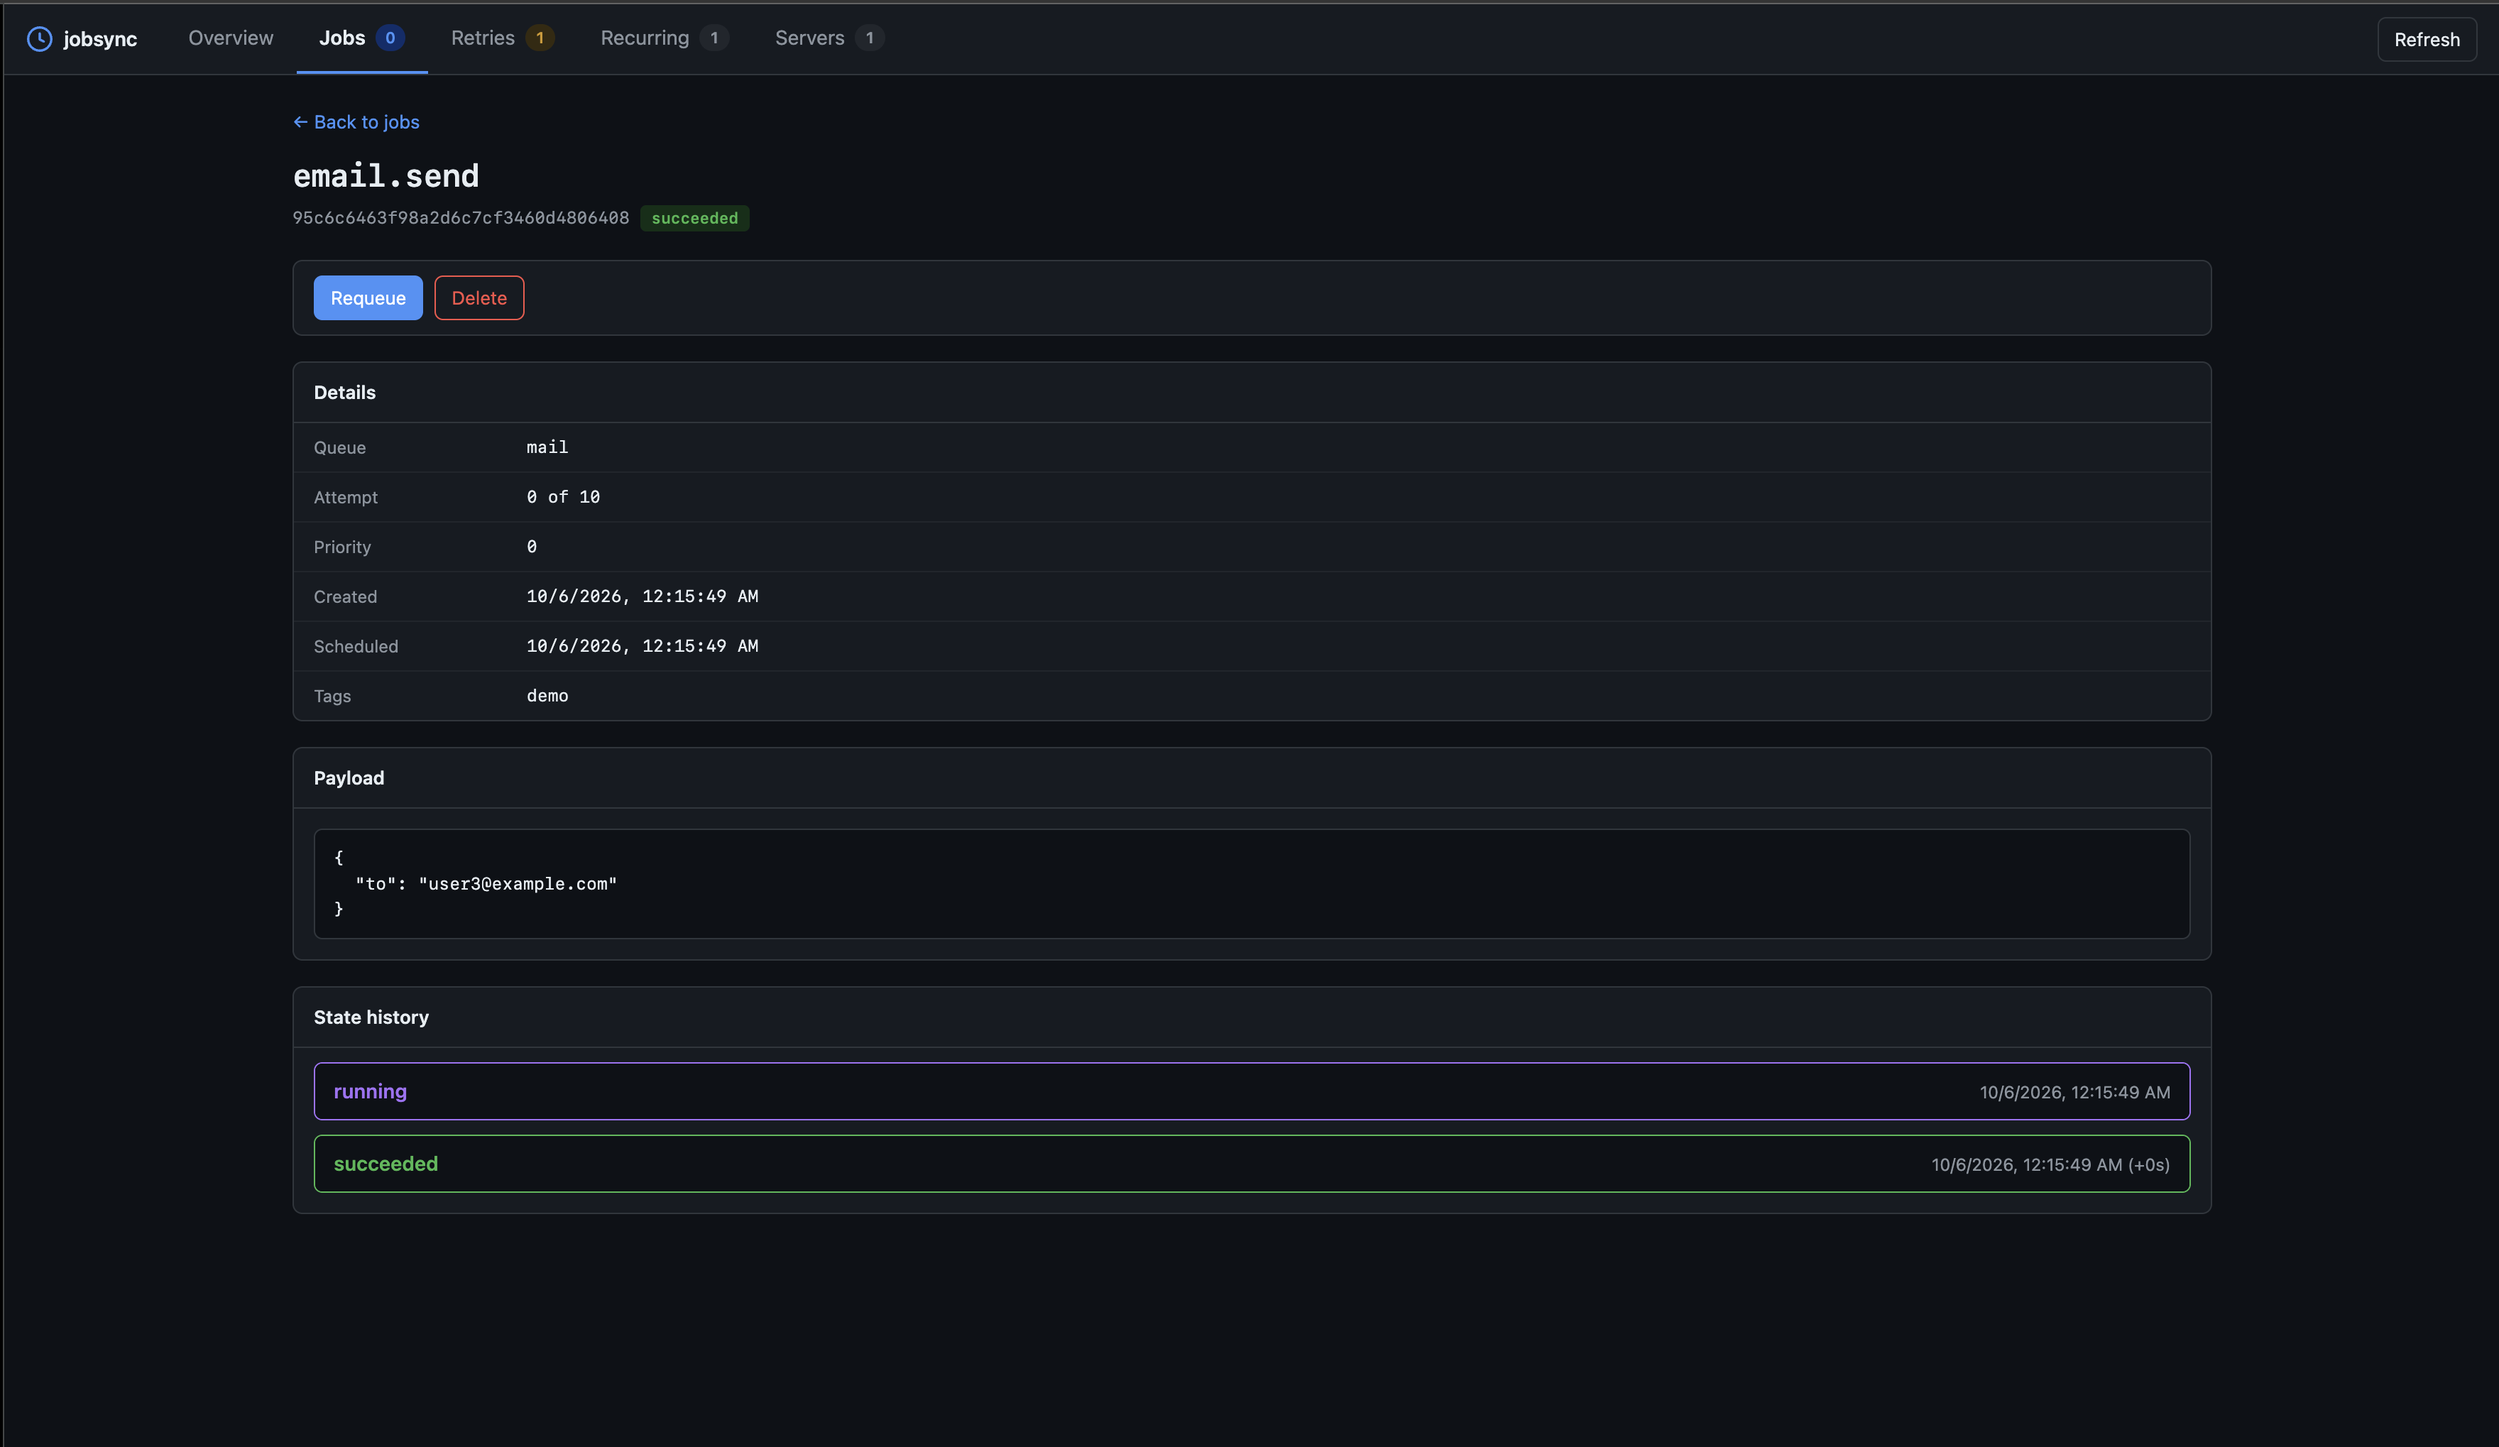
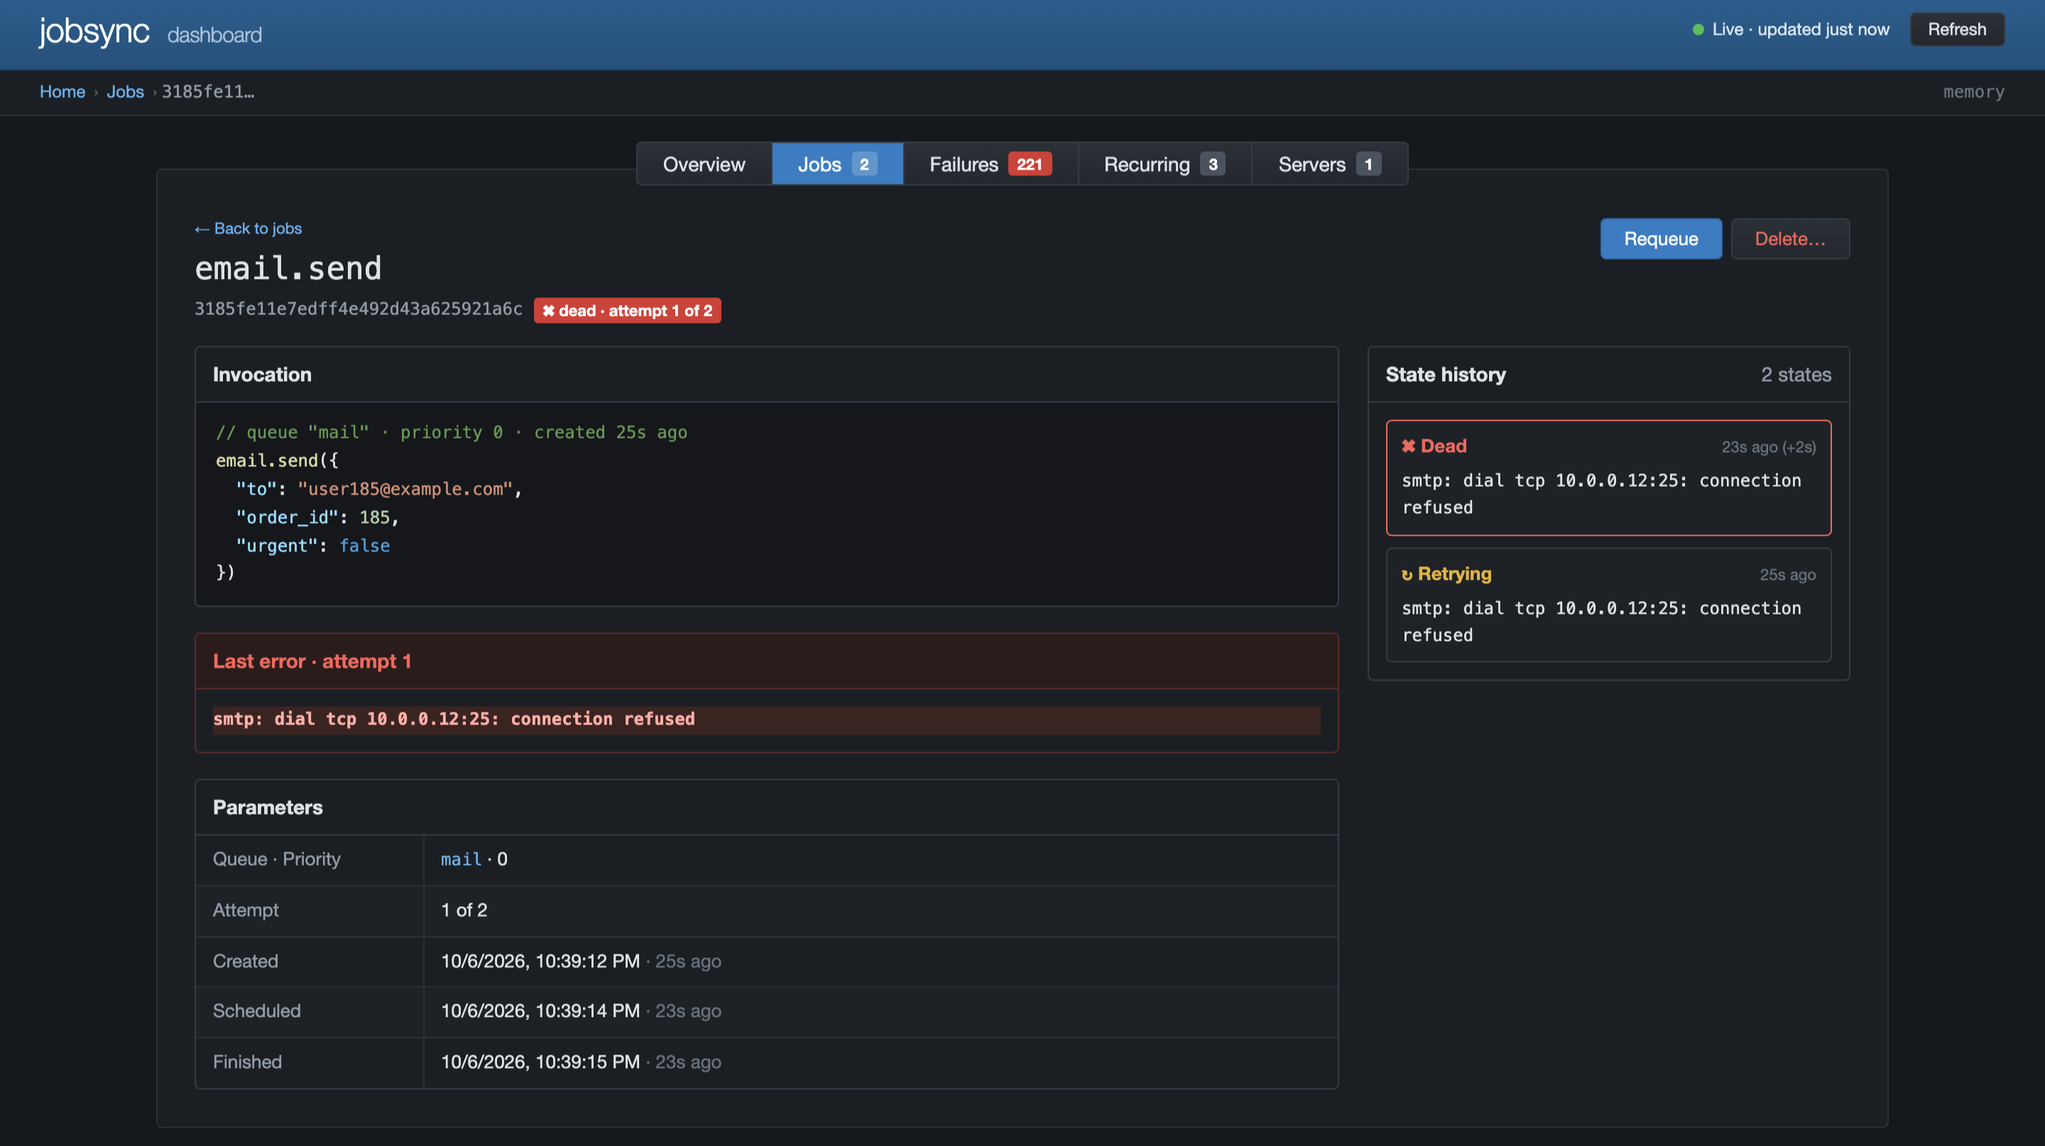
docs: refresh dashboard screenshots and describe the Failures tab

diff --git a/README.md b/README.md
@@ -149,19 +149,27 @@ func main() {
 Mount it on any `http.ServeMux` and you get the whole thing. It ships as a single
 embedded HTML file, so it renders offline and stays out of your build pipeline.
 
-**Find the job that broke.** Filter by state from the sidebar; the failure
-message is in the table, so you don't have to open anything to see what went
-wrong.
+**See what is failing, not just how much.** Dead and retrying jobs are grouped
+by cause, with IDs and numbers masked so "order 41 not found" and "order 97 not
+found" count as one problem. Each group has its error, when it started, and a
+button to requeue the lot once the cause is fixed.
+
+![Failures grouped by cause](docs/screenshots/failures.png)
+
+**Find the job that broke.** Filter by state or queue from the sidebar; the
+failure message is in the table, so you don't have to open anything to see what
+went wrong.
 
 ![Job list](docs/screenshots/jobs.png)
 
-**Then open it.** Payload, attempt count, and a state timeline with `+Nms`
-deltas — how long it waited, how long it ran, how long until the retry.
+**Then open it.** The job as the call that created it, the last error, and a
+state history with `+Nms` deltas — how long it waited, how long it ran, how long
+until the retry.
 
 ![Job detail](docs/screenshots/job-detail.png)
 
-**Recurring jobs**, with next and last run, and a Trigger button for when
-somebody asks whether the nightly report still works.
+**Recurring jobs**, with the schedule in words, next and last run, and a Trigger
+button for when somebody asks whether the nightly report still works.
 
 ![Recurring jobs](docs/screenshots/recurring.png)
 
